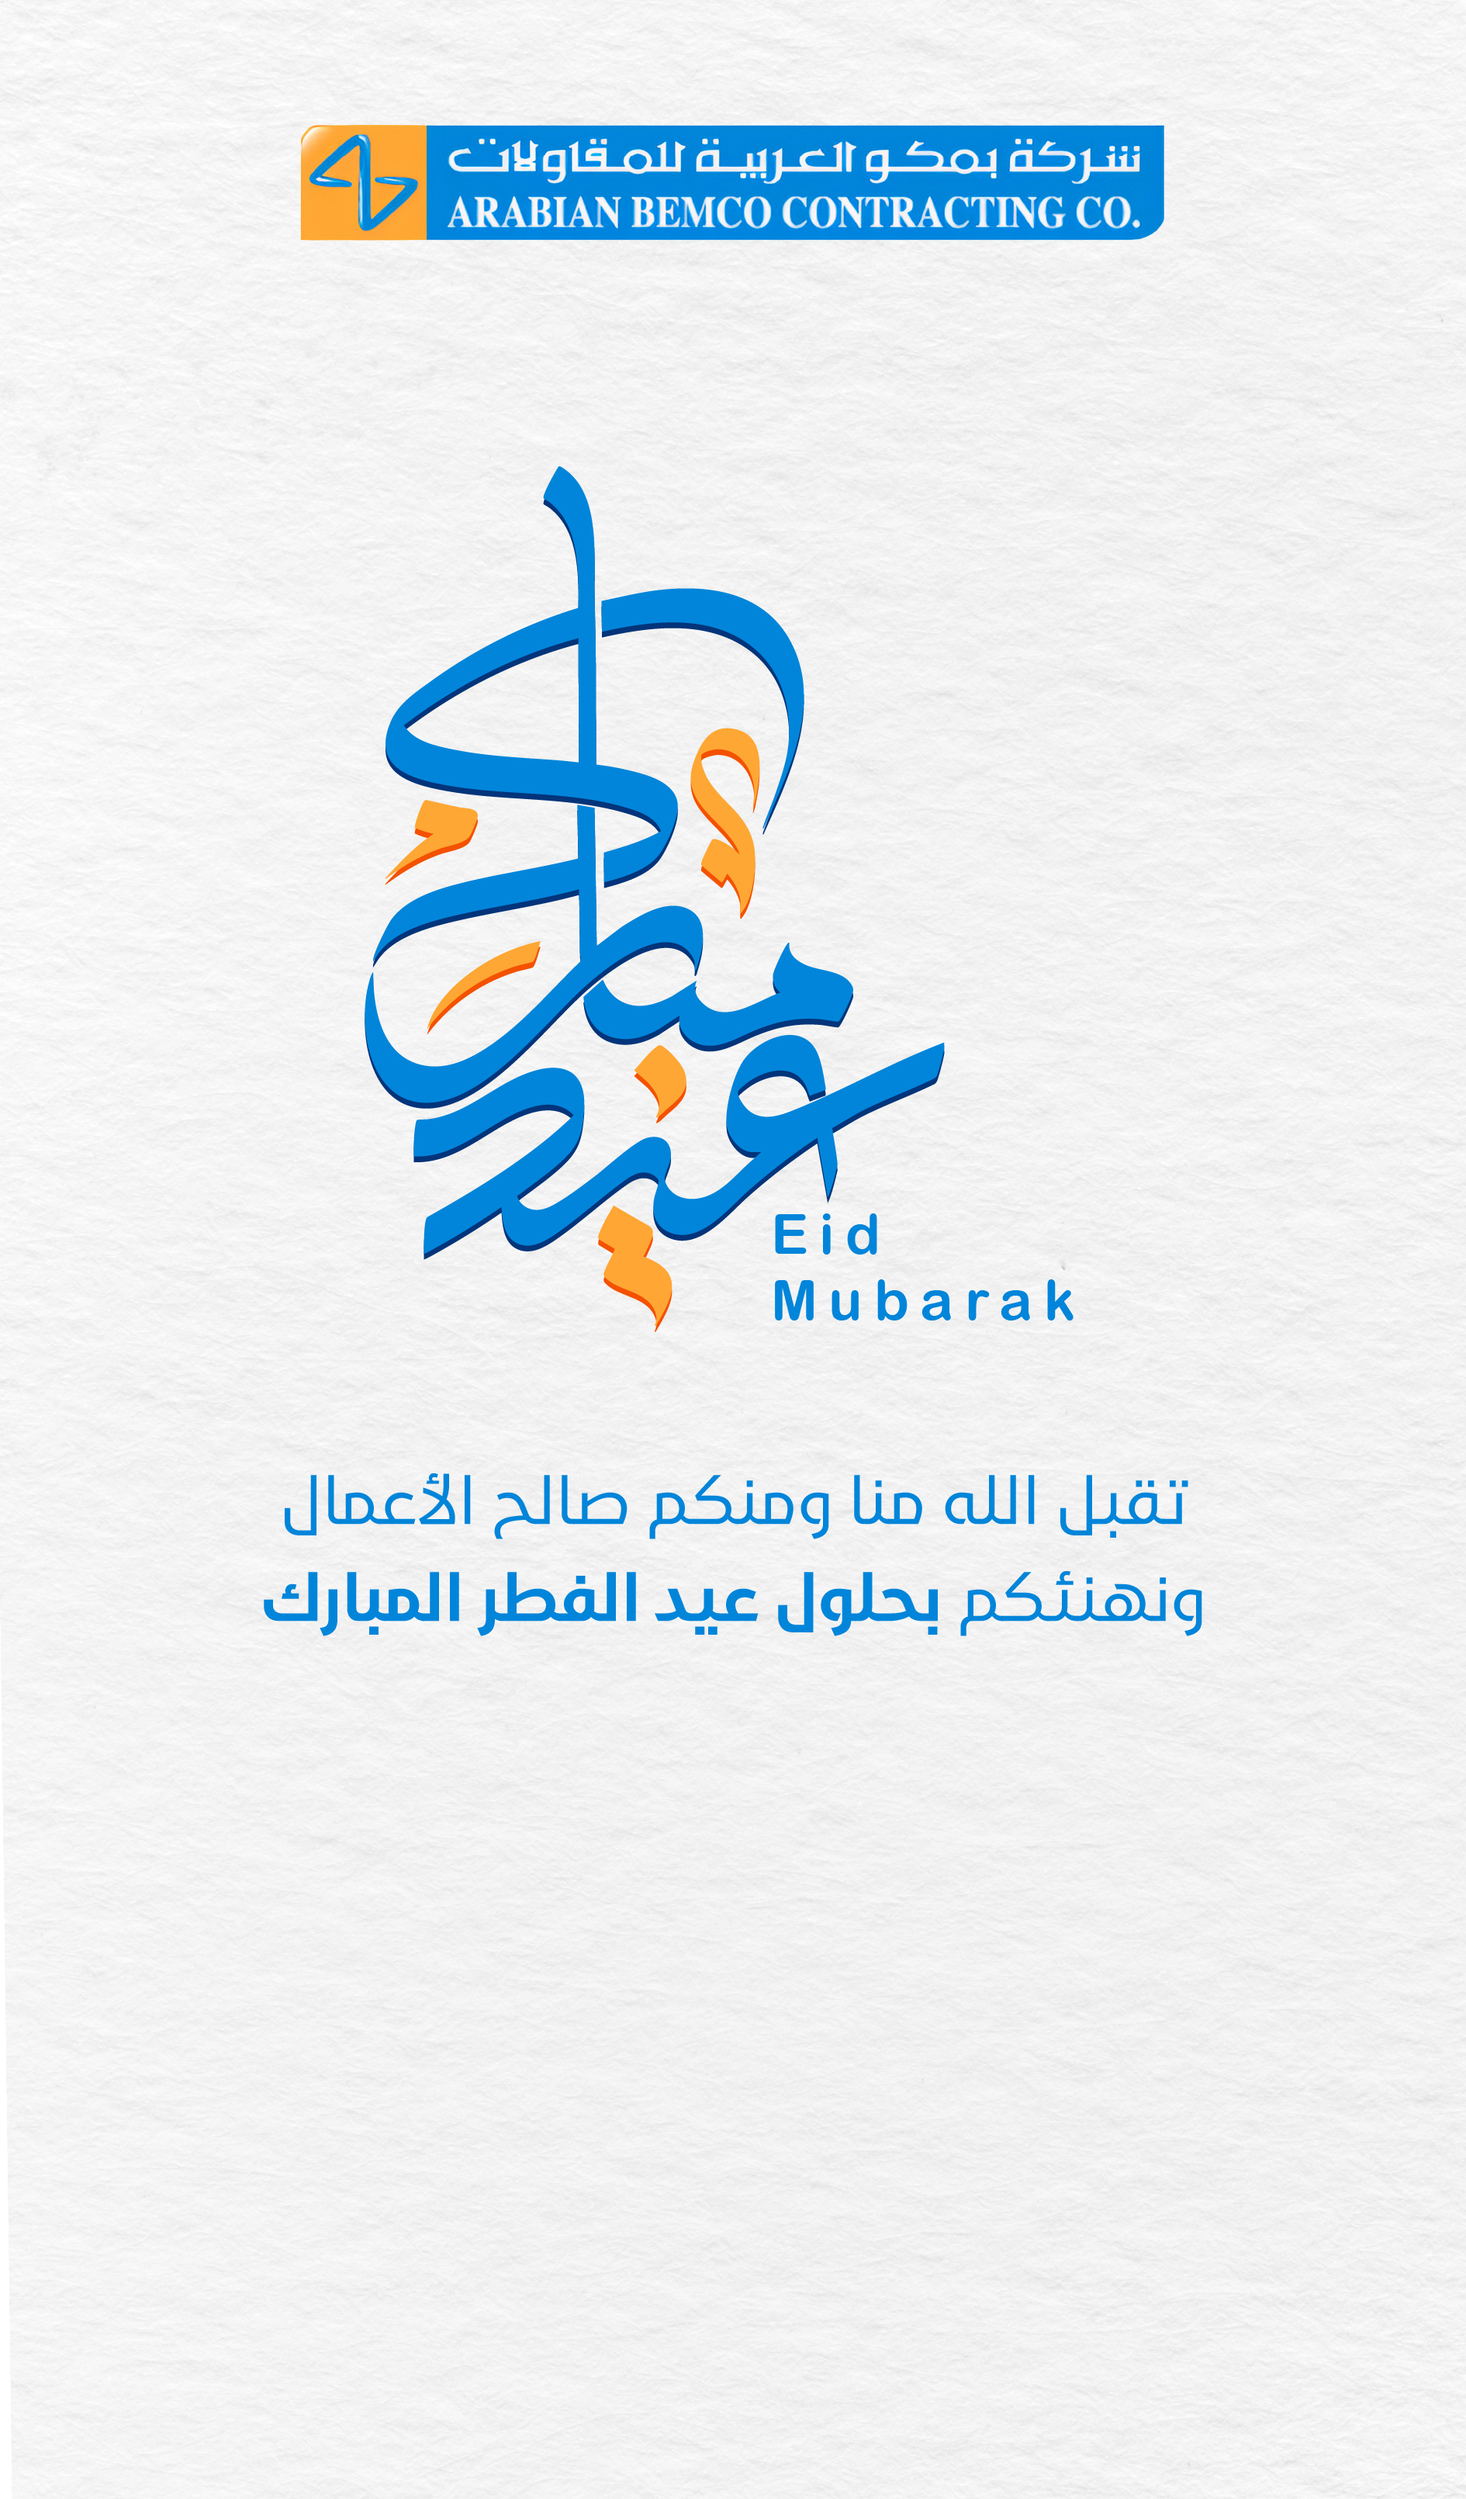
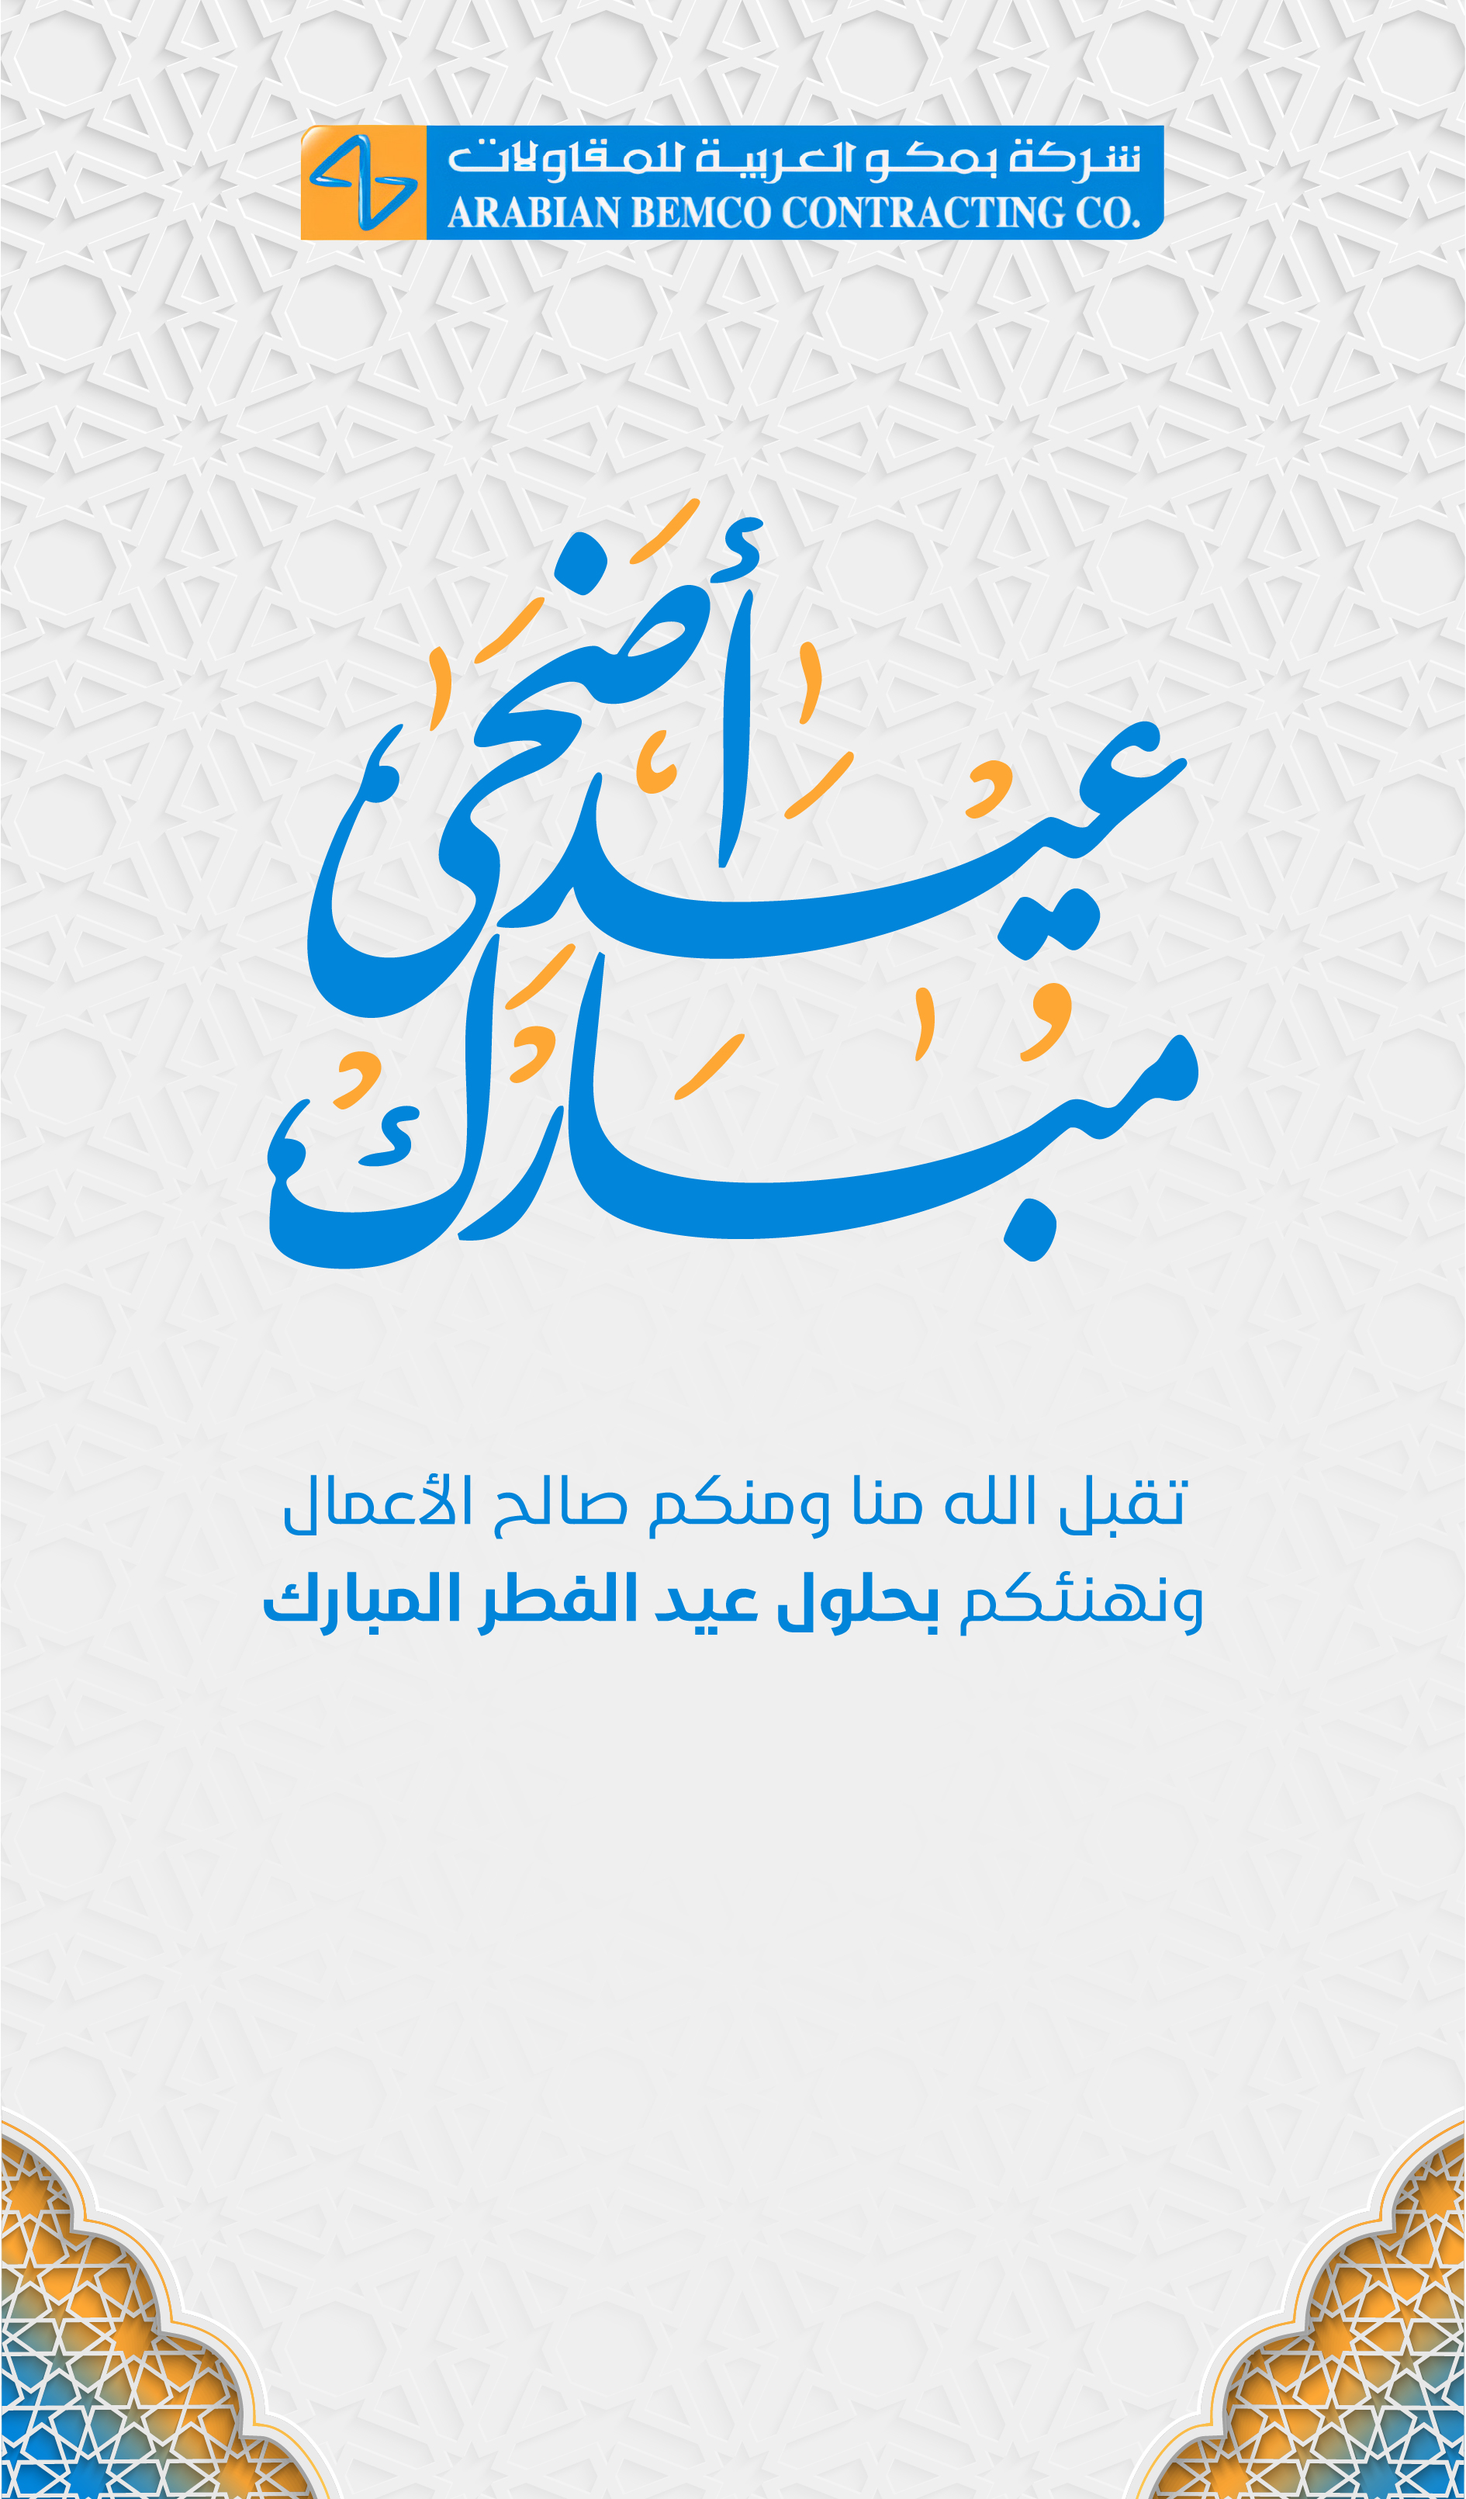
adha mubarak

diff --git a/index.html b/index.html
@@ -13,7 +13,7 @@
 
 <body>
     <div class="container">
-        <h2>يسر شركة بمكو للخدمات ان تهنئ موظفيها بقدوم عيد الفطر المبارك</h2>
+        <h2>يسر شركة بمكو للخدمات ان تهنئ موظفيها بقدوم عيد الأضحى المبارك</h2>
 
         <canvas id="greetingCanvas" width="400" height="600"></canvas>
 
